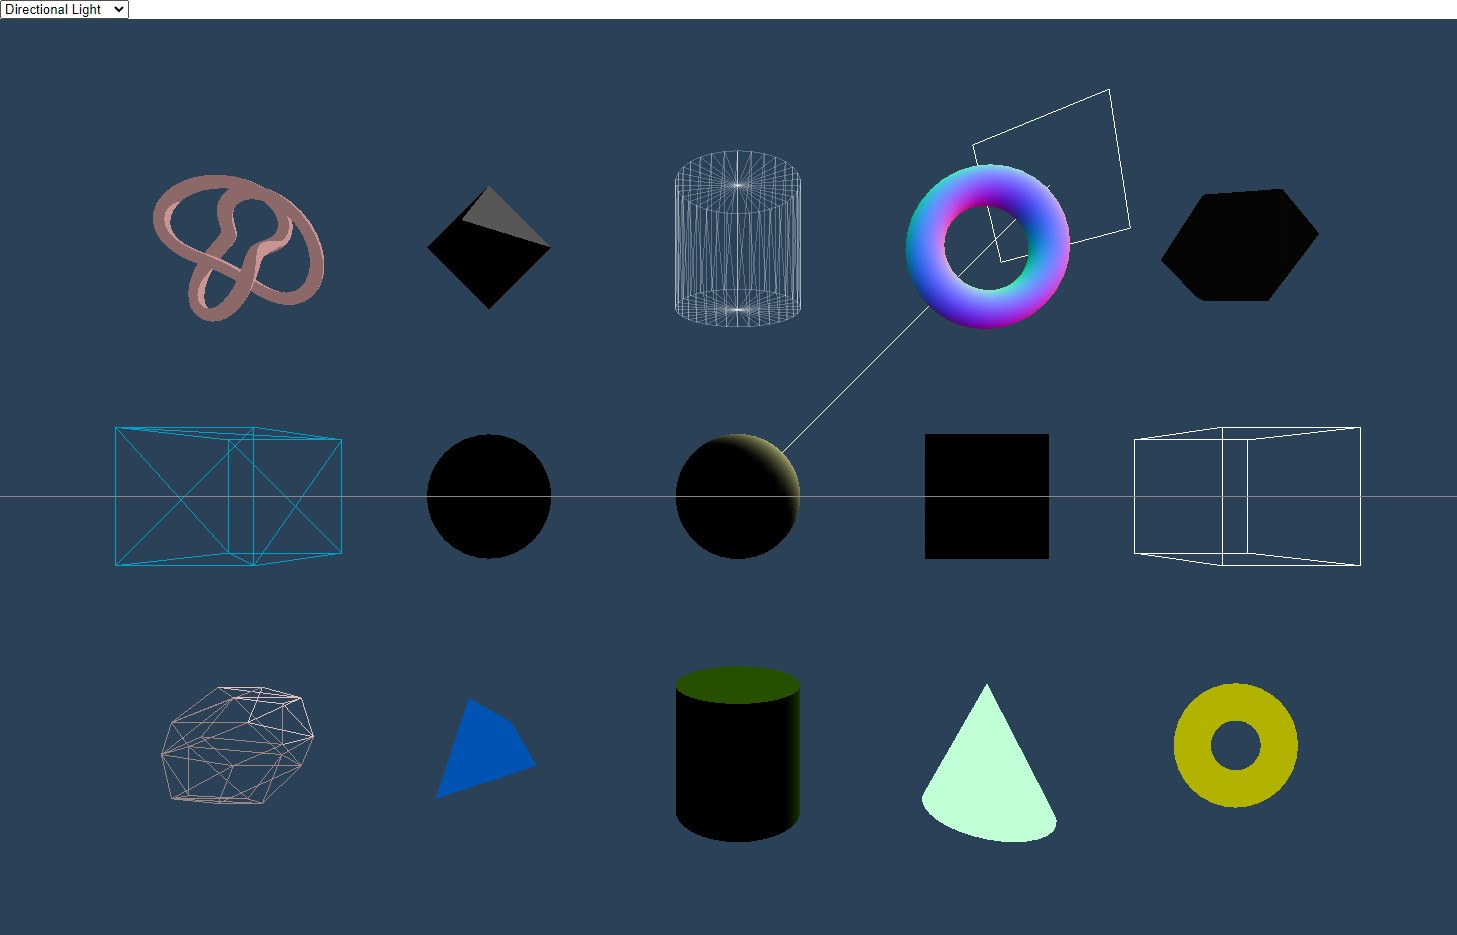
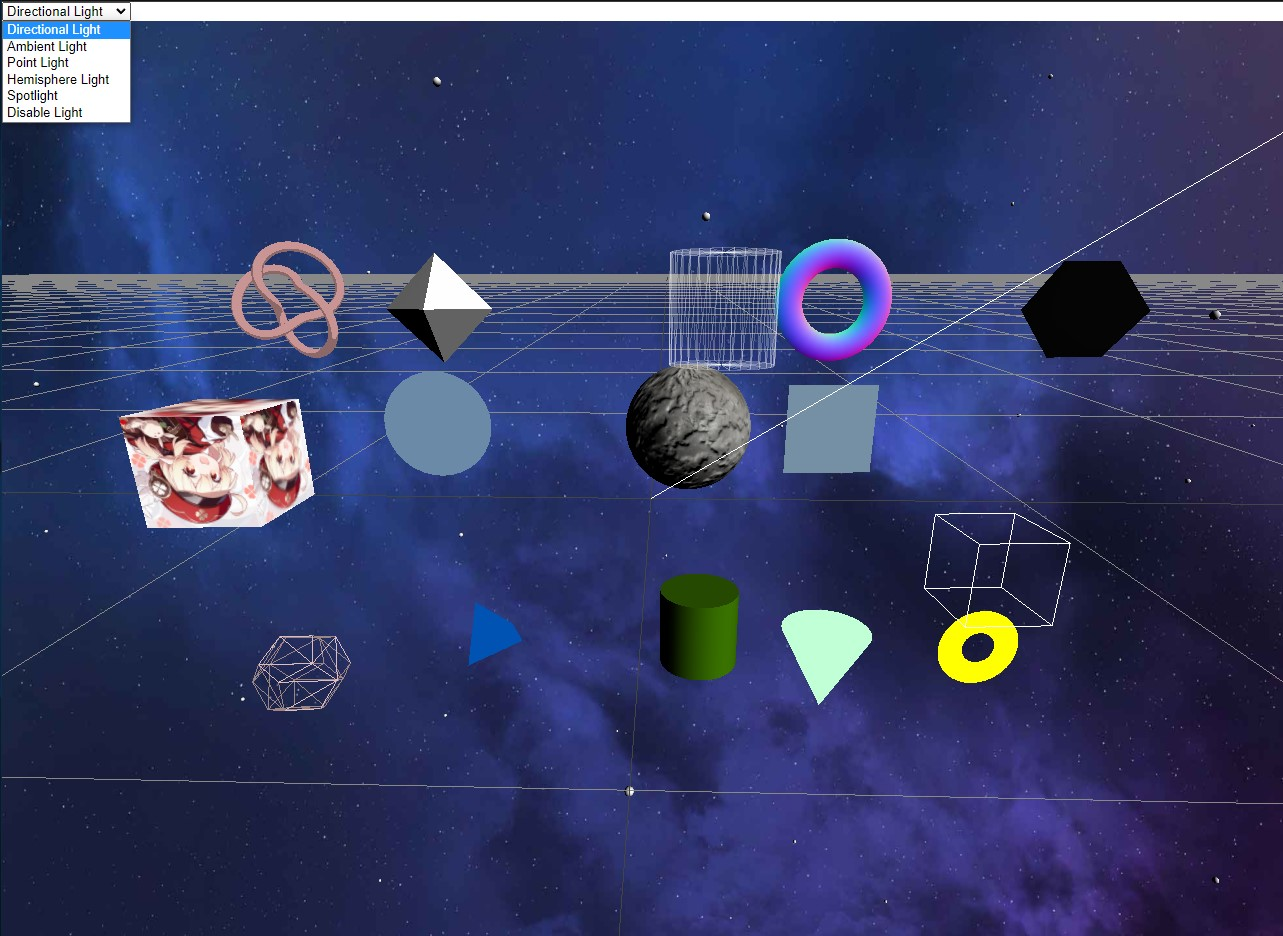
Add background and some texture

diff --git a/tugas_threeJS/ShapeAndLight.js b/tugas_threeJS/ShapeAndLight.js
@@ -1,19 +1,26 @@
 import * as THREE from 'three';
 
 const createShape = {
-    cube: () => {
-        const geometry  = new THREE.BoxGeometry( 1, 1, 1 );
-        const material  = new THREE.MeshBasicMaterial({ wireframe: true, color: 0x00a1cb })
-        const cone      = new THREE.Mesh( geometry, material );
-        cone.position.set(-4, 0, 0);
-        return cone;
+    avatar: () => {
+        const kleeTexture = new THREE.TextureLoader().load('klee.jpg');
+        const geometry    = new THREE.BoxGeometry( 1, 1, 1 );
+        const material    = new THREE.MeshBasicMaterial({ map: kleeTexture })
+        const avatar      = new THREE.Mesh( geometry, material );
+        avatar.position.set(-4, 0, 0);
+        return avatar;
     },
-    sphere: () => {
-        const geometry  = new THREE.SphereGeometry(0.5, 32, 32)
-        const material  = new THREE.MeshLambertMaterial({ color: 0xfcffa6 })
-        const sphere    = new THREE.Mesh(geometry, material);
-        sphere.position.set(0, 0, 0);
-        return sphere
+    moon: () => {
+        const moonTexture = new THREE.TextureLoader().load('moon.jpg');
+        const normalTexture = new THREE.TextureLoader().load('normal.jpg');
+
+        const geometry  = new THREE.SphereGeometry(0.75, 32, 32)
+        const material  = new THREE.MeshStandardMaterial({
+            map: moonTexture,
+            normalMap: normalTexture,
+        });
+        const moon      = new THREE.Mesh(geometry, material);
+        moon.position.set(0, 0, 0);
+        return moon
     },
     cone: () => {
         const geometry  = new THREE.ConeGeometry(0.5, 1, 32)
@@ -116,7 +123,7 @@ const createShape = {
 const createLight = {
     dLight: () => {
         const dLight = new THREE.DirectionalLight(0xffffff, 1);
-        dLight.position.set(5, 5, -5);
+        dLight.position.set(5, 5, 5);
 
         const lightHelper = new THREE.DirectionalLightHelper(dLight);
         return [dLight, lightHelper];
@@ -127,21 +134,21 @@ const createLight = {
     },
     pLight: () => {
         const pLight = new THREE.PointLight(0xffffff, 1, 100);
-        pLight.position.set(5, 5, -5);
+        pLight.position.set(5, 5, 5);
 
         const lightHelper = new THREE.PointLightHelper(pLight);
         return [pLight, lightHelper];
     },
     hLight: () => {
         const hLight = new THREE.HemisphereLight(0xffffff, '#ffb703', 0.8);
-        hLight.position.set(5, 5, -5);
+        hLight.position.set(5, 5, 5);
 
         const lightHelper = new THREE.HemisphereLightHelper(hLight);
         return [hLight, lightHelper];
     },
     sLight: () => {
         const sLight = new THREE.SpotLight(0xffffff, 1, 50);
-        sLight.position.set(5, 5, -5);
+        sLight.position.set(5, 5, 5);
 
         const lightHelper = new THREE.SpotLightHelper(sLight);
         return [sLight, lightHelper];

diff --git a/tugas_threeJS/index.html b/tugas_threeJS/index.html
@@ -51,6 +51,19 @@ function getRandomFloat() {
     return Math.random() * (maxAcc - minAcc) + minAcc;
 }
 
+function addStar() {
+    const geometry = new THREE.SphereGeometry(0.125, 12, 12);
+    const material = new THREE.MeshStandardMaterial({ color: 0xffffff });
+    const star = new THREE.Mesh(geometry, material);
+
+    const [x, y, z] = Array(3)
+        .fill()
+        .map(() => THREE.MathUtils.randFloatSpread(100));
+
+    star.position.set(x, y, z);
+    scene.add(star);
+}
+
 // set up the environment - 
 // initiallize scene, camera, objects and renderer
 const init = function() {
@@ -97,6 +110,13 @@ const init = function() {
             2*getRandomFloat(),
         ]; 
     }
+
+    // create star
+    Array(200).fill(0).forEach(addStar);
+
+    // load backgroud
+    const spaceTexture = new THREE.TextureLoader().load('space.jpg');
+    scene.background = spaceTexture;
        
     // 4. create the renderer     
     renderer = new THREE.WebGLRenderer();   
